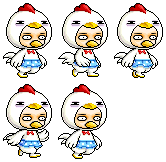
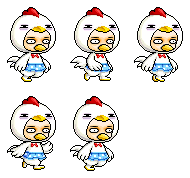
added player movement in all four directions

diff --git a/dist/main.js b/dist/main.js
@@ -15,7 +15,7 @@
   \**********************/
 /***/ (function() {
 
[2 lines of base64/hex data omitted]
 
 /***/ }),
 

diff --git a/src/index.js b/src/index.js
@@ -18,10 +18,10 @@ document.addEventListener("DOMContentLoaded", function () {
     speed: 5,
     moving: false,
     attacking: false,
-    spriteFrame: 0
+    // spriteFrame: 0
   }
   const playerImg = new Image();
-  playerImg.src = "./imgs/standing.png";
+  playerImg.src = "./imgs/alert_0.png";
 
   const background = new Image();
   background.src = "./imgs/background.jpg";
@@ -34,11 +34,43 @@ document.addEventListener("DOMContentLoaded", function () {
     ctx.clearRect(0, 0, canvasEl.width, canvasEl.height);
     ctx.drawImage(background, 0, 0, canvasEl.width, canvasEl.height);
     drawSprite(playerImg, 0, 0, playerImg.width, playerImg.height, player.x, player.y, playerImg.width, playerImg.height);
+    movePlayer();
+    // playerWalkAnimation();
     requestAnimationFrame(animate);
   }
   animate();
 
-  window.addEventListener("keydown", keyPress);
-  window.addEventListener("keyup", keyPress);
+  window.addEventListener("keydown", function(e) {
+    keys[e.code] = true;
+    player.moving = true;
+    console.log(keys);
+  });
+  window.addEventListener("keyup", function(e) {
+    delete keys[e.code];
+    player.moving = false;
+  });
+
+  function movePlayer() {
+    if (keys["ArrowUp"] && player.y > 50) {
+      player.y -= player.speed;
+    }
+    if (keys["ArrowDown"] && player.y < 650) {
+      player.y += player.speed;
+    }
+    if (keys["ArrowLeft"] && player.x > 15) {
+      player.x -= player.speed;
+    }
+    if (keys["ArrowRight"] && player.x < 500) {
+      player.x += player.speed;
+    }
+  }
+
+  // function playerWalkAnimation() {
+  //   if(player.frameX < 3 && player.moving) {
+  //     player.frameX++;
+  //   } else {
+  //     player.frameX = 0;
+  //   }
+  // }
 
 });

diff --git a/src/scripts/player.js b/src/scripts/player.js
@@ -1,27 +1,18 @@
-class Player {
-  // constructor () {
-  //   this.speed = 9;
-  //   this.x = 300; // player start pos x
-  //   this.y = 400;  // player start pos y
-  //   this.frameX = 0;
-  //   this.frameY = 0;
-  //   this.moving = false;
-  //   this.attacking = false;
-  // }
-  // drawSprite(img, sX, sY, sW, sH, dX, dY, dW, dH) {
-  //   ctx.drawImage(img, sX, sY, sW, sH, dX, dY, dW, dH) 
-  // }
+// export default Player;
+// class Player {
+//   constructor () {
+//     this.x = 300; // player start pos x
+//     this.y = 400;  // player start pos y
+//     this.width = 83; // width in px divide by col
+//     this.height = 81;
+//     this.frameX = 0;
+//     this.frameY = 0;
+//     this.speed = 5;
+//     this.moving = false;
+//     this.attacking = false;
+//     this.spriteFrame = 0
+//     this.playerImg = new Image();
+//     this.playerImg.src = "./imgs/standing.png";
+//   }
 
-
-  // // document.addEventListener("keydown", (e) => {
-  // //   let dir = directionKeys[e]
-    
-  // // })
-
-  // // movePlayer(pos) {
-  // //   if () {
-  // //     this.pos[0] += ;
-  // //   }
-  // // }
-  
-}
+// }
